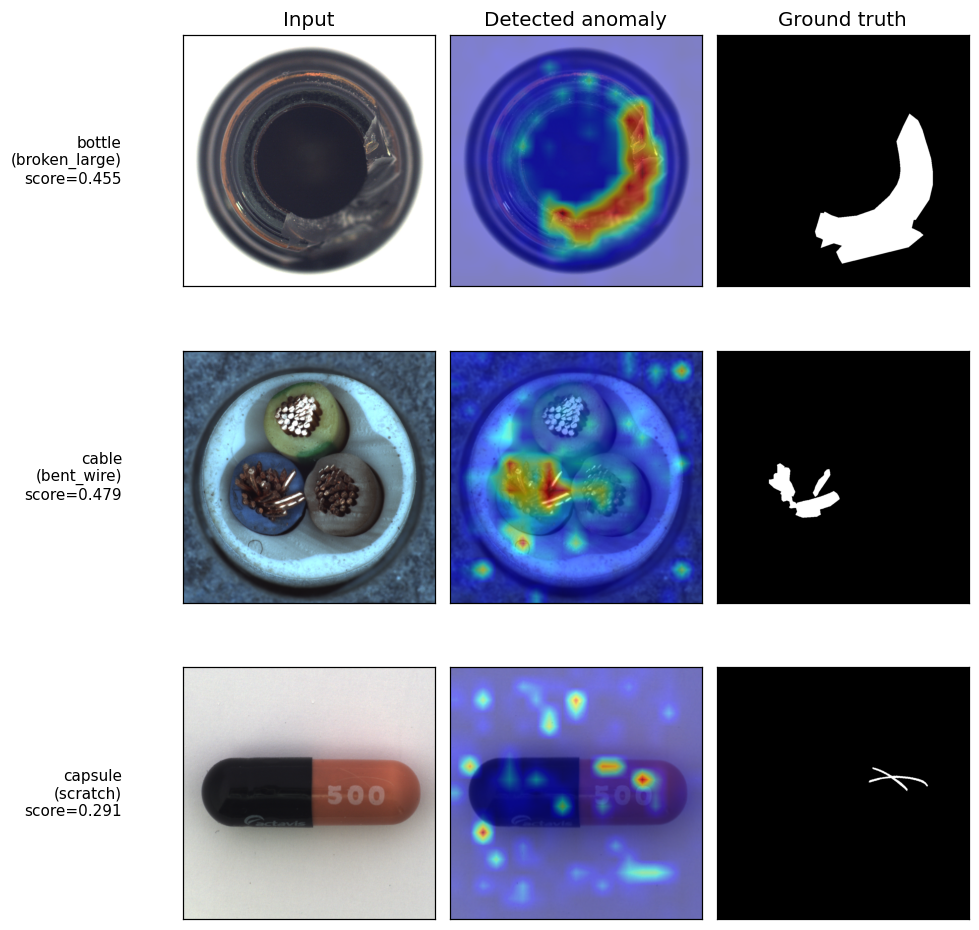
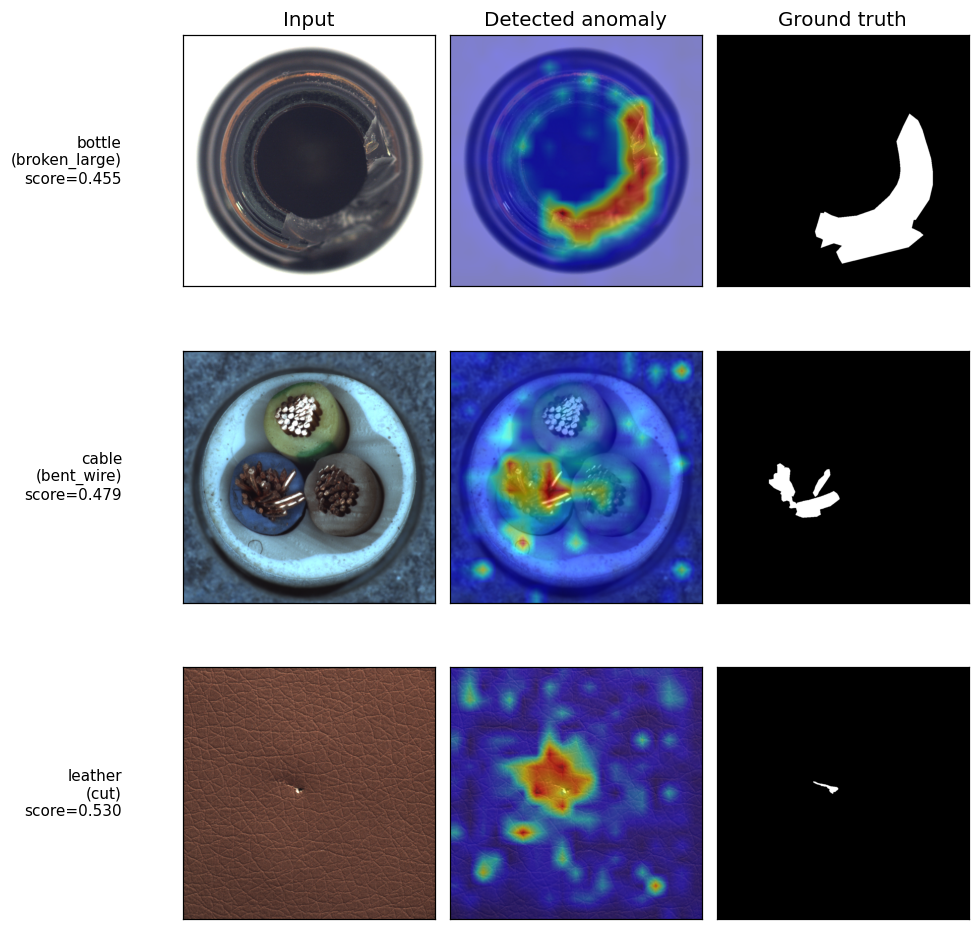
Replace capsule model with leather across app, samples, and results
Train an MVTec "leather" student (configs/mvtec_leather.yaml; best epoch 234,
val-calibrated threshold 0.32) and drop the capsule model. Swaps the bundled
sample images, the README results table, and the detection figures (input /
detected anomaly / ground truth) from capsule to leather. The shipped model set
is now: cifar10, fashionmnist, mnist, mvtec_bottle, mvtec_cable, mvtec_leather.

diff --git a/scripts/make_results.py b/scripts/make_results.py
@@ -45,10 +45,10 @@ JOBS = {
         "data/mvtec/cable/ground_truth/bent_wire/000_mask.png",
         "bent_wire",
     ),
-    "mvtec_capsule": (
-        "data/mvtec/capsule/test/scratch/000.png",
-        "data/mvtec/capsule/ground_truth/scratch/000_mask.png",
-        "scratch",
+    "mvtec_leather": (
+        "data/mvtec/leather/test/cut/000.png",
+        "data/mvtec/leather/ground_truth/cut/000_mask.png",
+        "cut",
     ),
 }
 

diff --git a/README.md b/README.md
@@ -108,7 +108,7 @@ ever having seen anomalies during training.
 |---|---|---|
 | bottle | broken_large | ![bottle](assets/results/mvtec_bottle.png) |
 | cable | bent_wire | ![cable](assets/results/mvtec_cable.png) |
-| capsule | scratch | ![capsule](assets/results/mvtec_capsule.png) |
+| leather | cut | ![leather](assets/results/mvtec_leather.png) |
 
 Regenerate these figures after retraining with
 `python scripts/make_results.py` (writes to `assets/results/`).
